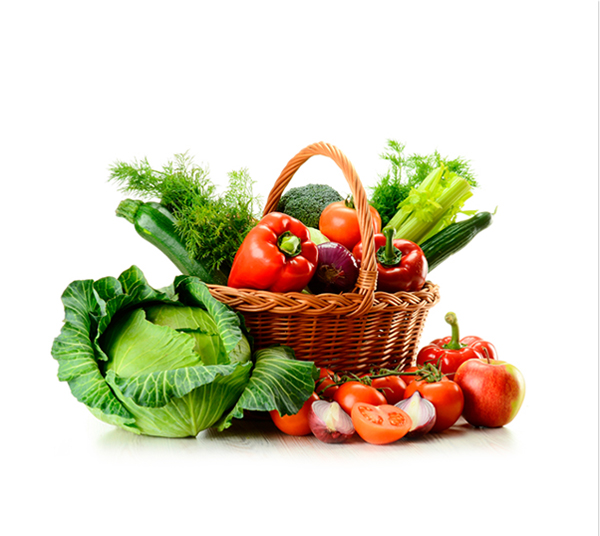
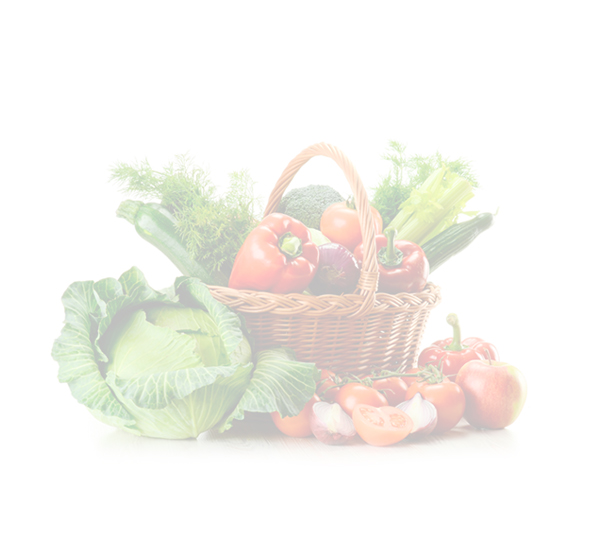
changes

diff --git a/email-foodbox.html b/email-foodbox.html
@@ -154,7 +154,7 @@
 <table border="0" bgcolor="#ffffff" cellpadding="0" cellspacing="0" width="100%" aling="center">
   <tr>
     <td>
-      <table border="0" bgcolor="#ffffff" aling="center" valing="top" cellpadding="0" cellspacing="0" width="600" class="contenttable">
+      <table border="0" bgcolor="#ffffff" aling="center" valing="top" cellpadding="0" cellspacing="0" width="600" style="display: block; background:url(bg.jpg)no-repeat 50% 0;" class="contenttable">
     	<tr>
     		<td bgcolor="#ffffff" align="center">
     			<!--[if (gte mso 9)|(IE)]>
@@ -200,7 +200,7 @@
     		</td>
     	</tr>
     	<tr>
-    		<td bgcolor="#ffffff" align="center" style="padding-top: 17px">
+    		<td align="center" style="padding-top: 17px">
     			<!--[if (gte mso 9)|(IE)]>
     			<table align="center" border="0" cellspacing="0" cellpadding="0" width="500">
     				<tr>
@@ -241,7 +241,7 @@
     		</td>
     	</tr>
     	<tr>
-    		<td bgcolor="#ffffff" align="center" style="">
+    		<td align="center" style="">
     			<table border="0" cellpadding="0" cellspacing="0" width="100%" style="padding:0 0 20px 0;">
     				<tr>
     					<td align="center" height="100%" valign="top">
@@ -252,11 +252,11 @@
     						<![endif]-->
     						<table align="center" border="0" cellpadding="20" cellspacing="0" width="100%">
     							<tr>
-    								<td bgcolor="#ffffff" align="left" valign="top" width="100%">
+    								<td align="left" valign="top" width="100%">
     									<!-- карточка товара -->
     									<table align="left" border="0" cellspacing="0" cellpadding="0" width="256" class="responsive-table">
     										<tr>
-    											<td style="border: 1px solid #dadada; padding: 12px 23px;"><a href="#" target="_blank" style="color: #63686f; line-height: 18px; font-size: 18px; font-family: Helvetica, Arial, sans-serif; text-decoration: none; min-height:66px;">Стейки трески замороженые Мурманск</a></td>
+    											<td bgcolor="#ffffff" style="border: 1px solid #dadada; padding: 12px 23px;"><a href="#" target="_blank" style="color: #63686f; line-height: 18px; font-size: 18px; font-family: Helvetica, Arial, sans-serif; text-decoration: none; min-height:66px;">Стейки трески замороженые Мурманск</a></td>
     										</tr>
                         <tr>
     											<td height="22"></td>
@@ -293,7 +293,7 @@
 
                       <!-- карточка товара -->
                       <table align="center" border="0" cellspacing="0" cellpadding="0" width="256" class="responsive-table mobile-hide">
-                        <tr>
+                        <tr bgcolor="#ffffff">
                           <td style="border: 1px solid #dadada; padding: 12px 23px;"><a href="#" target="_blank" style="color: #63686f; line-height: 18px; font-size: 18px; font-family: Helvetica, Arial, sans-serif; text-decoration: none; min-height:66px;">Стейки трески замороженые Мурманск</a></td>
                         </tr>
                         <tr>
@@ -325,7 +325,7 @@
                       <!-- карточка товара -->
                       <table align="left" border="0" cellspacing="0" cellpadding="0" width="256" class="responsive-table mobile-hide">
                         <tr>
-                          <td style="border: 1px solid #dadada; padding: 12px 23px;"><a href="#" target="_blank" style="color: #63686f; line-height: 18px; font-size: 18px; font-family: Helvetica, Arial, sans-serif; text-decoration: none; min-height:66px;">Стейки трески замороженые Мурманск</a></td>
+                          <td bgcolor="#ffffff" style="border: 1px solid #dadada; padding: 12px 23px;"><a href="#" target="_blank" style="color: #63686f; line-height: 18px; font-size: 18px; font-family: Helvetica, Arial, sans-serif; text-decoration: none; min-height:66px;">Стейки трески замороженые Мурманск</a></td>
                         </tr>
                         <tr>
                           <td height="22"></td>
@@ -356,7 +356,7 @@
                       <!-- карточка товара -->
                       <table align="center" border="0" cellspacing="0" cellpadding="0" width="256" class="responsive-table mobile-hide">
                         <tr>
-                          <td style="border: 1px solid #dadada; padding: 12px 23px;"><a href="#" target="_blank" style="color: #63686f; line-height: 18px; font-size: 18px; font-family: Helvetica, Arial, sans-serif; text-decoration: none; min-height:66px;">Стейки трески замороженые Мурманск</a></td>
+                          <td bgcolor="#ffffff" style="border: 1px solid #dadada; padding: 12px 23px;"><a href="#" target="_blank" style="color: #63686f; line-height: 18px; font-size: 18px; font-family: Helvetica, Arial, sans-serif; text-decoration: none; min-height:66px;">Стейки трески замороженые Мурманск</a></td>
                         </tr>
                         <tr>
                           <td height="22"></td>
